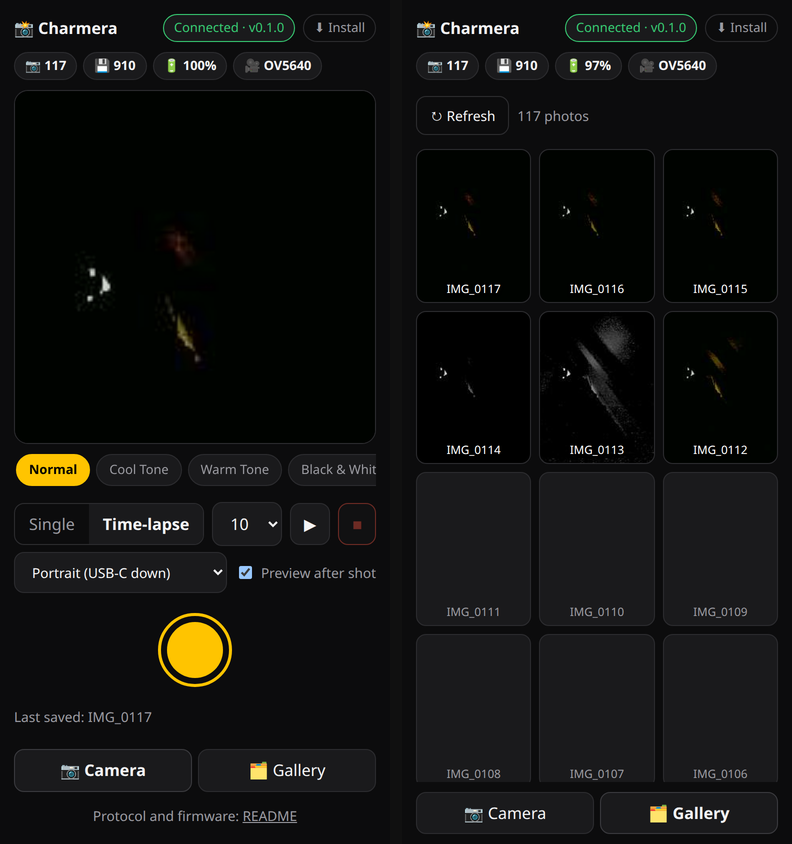
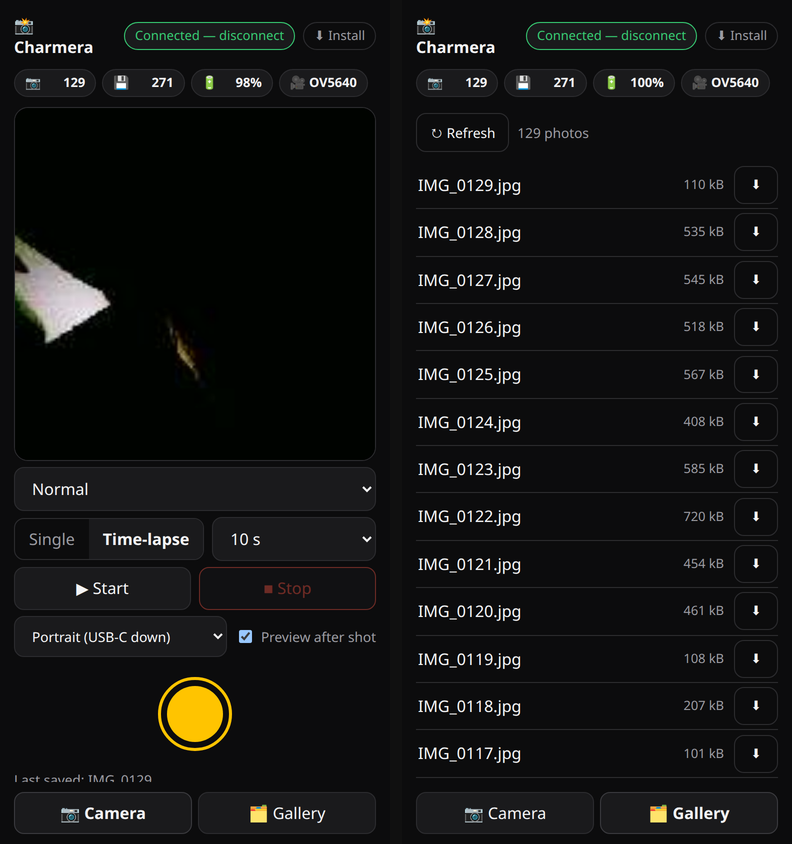
polish(web): gallery is a fast list (no thumbnail prefetch), looks as a dropdown, mode row never clipped, fixed-width status values, tap the badge to disconnect; screenshots and README follow

diff --git a/docs/app.js b/docs/app.js
@@ -101,13 +101,14 @@ function fetchFileNow(command, progress) {
 function render() {
   const connected = !!(device && device.gatt.connected) && ready;
   $('app').classList.toggle('disabled', !connected);
-  $('conn-chip').textContent = connected ? `Connected${info ? ' · v' + info.version : ''}` : 'Not connected';
+  $('conn-chip').textContent = connected ? 'Connected — disconnect' : 'Not connected';
+  $('conn-chip').title = connected ? 'Tap to disconnect' : '';
   $('conn-chip').classList.toggle('on', connected);
   if (!status) return;
   const s = status;
   $('photos').textContent = s.photos;
   $('left').textContent = s.card === 'none' ? 'No card' : s.card === 'full' ? 'Full' : s.left;
-  $('battery').textContent = s.usb ? 'USB' : `${s.battery}%`;
+  $('battery').textContent = s.usb ? 'Charging' : `${s.battery}%`;
   $('camera').textContent = s.camera;
   $('interval').value = s.interval;
   if (s.orientationSetting) $('orientation').value = s.orientationSetting;
@@ -156,24 +157,16 @@ function send(text) {
 // ---------- looks ----------
 
 function buildLooks() {
-  const row = $('looks');
-  row.innerHTML = '';
-  (info ? info.looks : []).forEach((name, i) => {
-    const b = document.createElement('button');
-    b.className = 'pill';
-    b.textContent = name;
-    b.setAttribute('role', 'option');
-    b.addEventListener('click', () => send(`look ${i}`));
-    row.appendChild(b);
-  });
+  const sel = $('looks');
+  sel.innerHTML = '';
+  (info ? info.looks : []).forEach((name, i) => sel.add(new Option(name, i)));
 }
 
 function paintLooks() {
   if (!status) return;
-  [...$('looks').children].forEach((b, i) => {
-    b.classList.toggle('sel', i === status.look);
-    b.disabled = status.running || status.busy;
-  });
+  const sel = $('looks');
+  if (+sel.value !== status.look) sel.value = status.look;
+  sel.disabled = status.running || status.busy;
 }
 
 // ---------- shoot + preview ----------
@@ -229,51 +222,55 @@ async function loadGallery() {
     gallery = JSON.parse(await blob.text());
     gallery.sort((a, b) => b[0] - a[0]); // newest first
     $('gallery-info').textContent = `${gallery.length} photos`;
-    buildGrid();
+    buildList();
   } catch (e) {
     $('gallery-info').textContent = `Failed: ${e.message}`;
   }
 }
 
-const thumbCache = new Map(); // photo number -> object URL, or null when it has no .THM
-let thumbObserver = null;
-
-function buildGrid() {
-  const grid = $('grid');
-  grid.innerHTML = '';
-  if (thumbObserver) thumbObserver.disconnect();
-  thumbObserver = new IntersectionObserver((entries) => {
-    for (const e of entries) {
-      if (!e.isIntersecting) continue;
-      thumbObserver.unobserve(e.target);
-      loadCellThumb(e.target);
-    }
-  }, { rootMargin: '200px' });
+/* A plain list: name, size, a download button. Loading 100+ thumbnails over Bluetooth
+   would take forever, so images only load in the viewer for the photo you picked. */
+function buildList() {
+  const list = $('photo-list');
+  list.innerHTML = '';
   for (const [n, size] of gallery) {
-    const cell = document.createElement('button');
-    cell.className = 'cell';
-    cell.dataset.n = n;
-    cell.title = `IMG_${String(n).padStart(4, '0')} (${Math.round(size / 1024)} kB)`;
-    cell.textContent = `IMG_${String(n).padStart(4, '0')}`;
-    cell.addEventListener('click', () => openViewer(n));
-    grid.appendChild(cell);
-    thumbObserver.observe(cell);
+    const row = document.createElement('div');
+    row.className = 'prow';
+    const name = document.createElement('button');
+    name.className = 'prow-open';
+    name.textContent = `IMG_${String(n).padStart(4, '0')}.jpg`;
+    name.addEventListener('click', () => openViewer(n));
+    const kb = document.createElement('span');
+    kb.className = 'prow-size';
+    kb.textContent = `${Math.round(size / 1024)} kB`;
+    const dl = document.createElement('button');
+    dl.className = 'prow-dl ghost';
+    dl.textContent = '⬇';
+    dl.title = 'Download full size';
+    dl.addEventListener('click', () => downloadRow(n, dl));
+    row.append(name, kb, dl);
+    list.appendChild(row);
   }
 }
 
-async function loadCellThumb(cell) {
-  const n = +cell.dataset.n;
-  if (!thumbCache.has(n)) {
-    try {
-      thumbCache.set(n, URL.createObjectURL(await fetchFile(`thumb ${n}`)));
-    } catch {
-      thumbCache.set(n, null); // older photo without a sidecar: keep the name
-    }
-  }
-  const url = thumbCache.get(n);
-  if (url && cell.isConnected) {
-    cell.style.backgroundImage = `url(${url})`;
-    cell.classList.add('has-thumb');
+/* Download straight from the list; the button shows progress and re-enables when done. */
+async function downloadRow(n, btn) {
+  btn.disabled = true;
+  try {
+    const blob = await fetchFile(`get ${n}`, (got, total) => {
+      btn.textContent = total ? `${Math.round((got / total) * 100)}%` : `${got} B`;
+    });
+    const a = document.createElement('a');
+    a.href = URL.createObjectURL(blob);
+    a.download = `IMG_${String(n).padStart(4, '0')}.jpg`;
+    a.click();
+    btn.textContent = '✓';
+    setTimeout(() => { btn.textContent = '⬇'; }, 1500);
+  } catch (e) {
+    btn.textContent = '✕';
+    setTimeout(() => { btn.textContent = '⬇'; }, 1500);
+  } finally {
+    btn.disabled = false;
   }
 }
 
@@ -415,6 +412,8 @@ function init() {
   $('preview-toggle').checked = store.get('preview', true);
   $('preview-toggle').addEventListener('change', (e) => store.set('preview', e.target.checked));
   $('connect').addEventListener('click', connect);
+  $('conn-chip').addEventListener('click', () => { if (device && device.gatt.connected) connect(); });
+  $('looks').addEventListener('change', (e) => send(`look ${e.target.value}`));
   $('mode-single').addEventListener('click', () => send('mode single'));
   $('mode-lapse').addEventListener('click', () => send(`mode lapse ${$('interval').value || ''}`.trim()));
   $('interval').addEventListener('change', (e) => send(`interval ${e.target.value}`));

diff --git a/docs/style.css b/docs/style.css
@@ -28,12 +28,15 @@ body {
 header { display: flex; align-items: center; gap: 8px; padding: 4px 0 10px; }
 .brand { font-weight: 700; margin-right: auto; }
 
-.chips { display: flex; gap: 6px; flex-wrap: wrap; padding-bottom: 10px; }
+.chips { display: flex; gap: 6px; padding-bottom: 10px; }
 .chip {
   background: var(--panel); border: 1px solid var(--line); border-radius: 999px;
   padding: 4px 10px; font-size: 0.8rem; color: var(--dim); white-space: nowrap;
 }
-.chip b { color: var(--fg); font-weight: 600; }
+.chip b {
+  color: var(--fg); font-weight: 600; display: inline-block; min-width: 3.2em;
+  text-align: right; font-variant-numeric: tabular-nums; /* fixed width: values don't shove the row */
+}
 .chip.on { border-color: var(--ok); color: var(--ok); }
 button.chip { cursor: pointer; }
 
@@ -78,12 +81,12 @@ button.ghost { background: transparent; }
 .row { display: flex; gap: 8px; align-items: center; margin: 6px 0; }
 .row.compact { font-size: 0.85rem; }
 .row > select { flex: 1; min-width: 0; }
-.seg { display: flex; border: 1px solid var(--line); border-radius: 10px; overflow: hidden; }
-.seg button { border: none; border-radius: 0; background: transparent; color: var(--dim); padding: 9px 14px; }
+.seg { display: flex; border: 1px solid var(--line); border-radius: 10px; overflow: hidden; flex: 0 0 auto; }
+.seg button { border: none; border-radius: 0; background: transparent; color: var(--dim); padding: 9px 14px; white-space: nowrap; }
 .seg button[aria-checked="true"] { background: var(--panel); color: var(--fg); font-weight: 600; }
 .toggle { display: flex; gap: 6px; align-items: center; color: var(--dim); white-space: nowrap; }
-#lapse-start, #lapse-stop { flex: 0 0 auto; }
-#interval { flex: 0 0 auto; min-width: 6.5em; }
+#lapse-start, #lapse-stop { flex: 1; }
+#interval { flex: 1; min-width: 0; }
 
 /* ---------- shutter ---------- */
 .shutter-row { display: grid; place-items: center; padding: 14px 0 6px; }
@@ -97,13 +100,17 @@ button.ghost { background: transparent; }
 @keyframes pulse { 50% { opacity: 0.3; } }
 
 /* ---------- gallery ---------- */
-#grid { display: grid; grid-template-columns: repeat(auto-fill, minmax(104px, 1fr)); gap: 8px; padding: 8px 0; }
-.cell {
-  aspect-ratio: 3 / 4; border-radius: 10px; border: 1px solid var(--line);
-  background: var(--panel) center / cover no-repeat; color: var(--dim); font-size: 0.72rem;
-  display: grid; place-items: end center; padding: 4px; word-break: break-all;
+#photo-list { display: flex; flex-direction: column; padding: 4px 0; }
+.prow {
+  display: flex; align-items: center; gap: 10px; padding: 2px 0;
+  border-bottom: 1px solid var(--line);
 }
-.cell.has-thumb { color: #fff; text-shadow: 0 1px 3px #000; }
+.prow-open {
+  flex: 1; min-width: 0; text-align: left; background: transparent; border: none;
+  border-radius: 0; padding: 10px 2px; font-variant-numeric: tabular-nums;
+}
+.prow-size { color: var(--dim); font-size: 0.8rem; font-variant-numeric: tabular-nums; white-space: nowrap; }
+.prow-dl { flex: 0 0 auto; min-width: 44px; font-size: 0.8rem; font-variant-numeric: tabular-nums; }
 
 /* ---------- tabs ---------- */
 #tabs { display: flex; gap: 6px; margin-top: auto; padding: 10px 0; position: sticky; bottom: 0; background: var(--bg); }

diff --git a/docs/index.html b/docs/index.html
@@ -14,7 +14,7 @@
   <div id="app" class="disabled">
     <header>
       <span class="brand">📸 Charmera</span>
-      <span id="conn-chip" class="chip">Not connected</span>
+      <button id="conn-chip" class="chip" title="Tap to disconnect">Not connected</button>
       <button id="install" class="chip ghost" hidden>⬇ Install</button>
     </header>
 
@@ -43,7 +43,9 @@
         </div>
       </div>
 
-      <div id="looks" class="pill-row" role="listbox" aria-label="Look"></div>
+      <div class="row">
+        <select id="looks" aria-label="Look"></select>
+      </div>
 
       <div class="row">
         <div class="seg" role="radiogroup" aria-label="Mode">
@@ -51,8 +53,11 @@
           <button id="mode-lapse" role="radio">Time-lapse</button>
         </div>
         <select id="interval" aria-label="Interval"></select>
-        <button id="lapse-start">▶</button>
-        <button id="lapse-stop" class="danger" disabled>■</button>
+      </div>
+
+      <div class="row">
+        <button id="lapse-start">▶ Start</button>
+        <button id="lapse-stop" class="danger" disabled>■ Stop</button>
       </div>
 
       <div class="row compact">
@@ -77,7 +82,7 @@
         <button id="gallery-refresh" class="ghost">↻ Refresh</button>
         <span id="gallery-info" class="muted">Not loaded yet</span>
       </div>
-      <div id="grid"></div>
+      <div id="photo-list"></div>
     </section>
 
     <nav id="tabs">

diff --git a/docs/sw.js b/docs/sw.js
@@ -2,7 +2,7 @@
 // network afterwards. Requests are served from the cache at once and refreshed in the
 // background (stale-while-revalidate), so a new version shows up on the next launch.
 // Bump VERSION when the shell's file list changes.
-const VERSION = 'charmera-remote-v4';
+const VERSION = 'charmera-remote-v5';
 const SHELL = [
   './',
   'index.html',

diff --git a/tools/web_test.py b/tools/web_test.py
@@ -104,12 +104,12 @@ async def main():
             print("    device connected:", await ev("!!(device && device.gatt.connected)"))
         print("    chip:", await ev("$('conn-chip').textContent"))
         print("    chips:", await ev("['photos','left','battery','camera'].map(i=>$(i).textContent).join(' | ')"))
-        report("look pills filled from Info (12)", await ev("$('looks').children.length") == 12)
+        report("look select filled from Info (12)", await ev("$('looks').options.length") == 12)
         report("interval list filled (5)", await ev("$('interval').options.length") == 5)
 
-        await ev("$('looks').children[2].click()")
-        report("look pill -> camera reports look 2", await until("status.look === 2"))
-        await ev("$('looks').children[0].click()")
+        await ev("$('looks').value='2'; $('looks').dispatchEvent(new Event('change'))")
+        report("look select -> camera reports look 2", await until("status.look === 2"))
+        await ev("$('looks').value='0'; $('looks').dispatchEvent(new Event('change'))")
         report("look back to Normal", await until("status.look === 0"))
 
         await ev("$('mode-lapse').click()")
@@ -137,20 +137,20 @@ async def main():
         await ev("window.confirm = () => true; $('lapse-stop').click()")
         report("Stop (confirmed) -> stopped, controls unlocked", await until("!status.running && !$('shoot').disabled", 20))
 
-        # gallery: tab switch triggers list; cells appear
+        # gallery: tab switch triggers list; rows appear (no thumbnails by design)
         await ev("$('tab-gallery').click()")
-        report("gallery lists card photos", await until("gallery.length > 0 && $('grid').children.length > 0", 25))
+        report("gallery lists card photos", await until("gallery.length > 0 && $('photo-list').children.length > 0", 25))
         print("    gallery-info:", await ev("$('gallery-info').textContent"))
-        print("    gallery:", await ev("gallery.length"), "photos, first cell", await ev("$('grid').firstChild.textContent"))
-        report("gallery cell opens viewer with thumbnail",
-               await ev("(async () => { $('grid').firstChild.click(); "
+        print("    gallery:", await ev("gallery.length"), "photos, first row", await ev("$('photo-list').firstChild.textContent"))
+        report("gallery row opens viewer with thumbnail",
+               await ev("(async () => { $('photo-list').firstChild.querySelector('.prow-open').click(); "
                         "await new Promise(r => setTimeout(r, 8000)); "
                         "return !$('viewer').hidden && !$('viewer-img').hidden; })()"))
 
         await ev("$('interval').value='1'; $('interval').dispatchEvent(new Event('change'))")
         await until("status.interval === 1")
-        await ev("device.gatt.disconnect()")
-        report("Disconnect -> controls disabled",
+        await ev("$('conn-chip').click()")
+        report("chip -> controls disabled",
                await until("$('app').classList.contains('disabled')"))
         print(f"\n{sum(log)}/{len(log)} passed")
         ok = all(log)

diff --git a/README.md b/README.md
@@ -47,7 +47,7 @@ Charmera's most common complaint: **you don't have to pick a mode every time you
 | 🔄 **Hold it any way** | Portrait, landscape either way round, or **Auto**, which turns the screen like a phone. Screen, viewfinder, frames, photos and gallery all follow. |
 | 👁 **WYSIWYG viewfinder** | Live view and encoder share the same C code per look; host tests check they agree. |
 | ⏱ **Time-lapse** | One photo every 5 s – 5 min, in its own card folder, ready to turn into video. Keeps shooting while the screen sleeps. |
-| 📶 **Bluetooth web app** | An installable phone app: shoot, see each shot right after, browse the card's thumbnails, download originals. |
+| 📶 **Bluetooth web app** | An installable phone app: shoot, see each shot right after, list the card and download originals. |
 | 🖼 **Gallery** | On the camera and in the app. Newest first. Step back through shots, delete one or all on the camera. |
 | 🏷 **Full EXIF** | Camera, date/time, orientation, size, look, time-lapse run and frame. |
 | 🔋 **Battery-friendly** | Dims after 30 s, off after 3 min; the sensor only runs while the viewfinder shows. |
@@ -201,7 +201,7 @@ At 24 fps, a 10 s interval turns 1 hour into 15 seconds of video.
 
 ## 📶 Bluetooth remote
 
-<img src="docs/images/remote.png" alt="The web app on a phone: the camera view with the preview of the shot just taken, look pills, time-lapse controls and the shutter; and the gallery view, a grid of thumbnails streamed from the card" width="400" align="right">
+<img src="docs/images/remote.png" alt="The web app on a phone: the camera view with the preview of the shot just taken, the look dropdown, time-lapse controls and the shutter; and the gallery view, a list of the card's photos with size and a download button" width="400" align="right">
 
 The camera advertises over Bluetooth LE as **Charmera-S3**. On by default; turn it off in
 Settings to save memory and battery.
@@ -214,9 +214,10 @@ the camera, not a status page:
   stop a run, change orientation. Battery, photo count and space left sit in the top bar.
 - **See what you shot.** With *Preview after shot* on (the default; the switch is remembered),
   the shot appears on the page about a second after the camera says *Saved*.
-- **Gallery.** Every photo on the card, newest first, with thumbnails that load as you scroll.
-  Tap one to view it, then **⬇ Full-size** to save the original JPEG (EXIF included) to your
-  phone or PC, without pulling the card.
+- **Gallery.** Every photo on the card, newest first, as a light list of names and sizes — no
+  thumbnails to wait for. Tap a name to preview it, or hit **⬇** on its row (or **⬇ Full-size**
+  in the viewer) to save the original JPEG (EXIF included) to your phone or PC without pulling
+  the card.
 
 iPhone browsers don't support Web Bluetooth. On Linux, Chrome needs
 `--enable-experimental-web-platform-features`.
@@ -227,11 +228,11 @@ internet; Bluetooth to the camera never needs the network.
 
 > [!NOTE]
 > **Previews are fast, originals take a while.** Each new photo also gets a small 144 × 192
-> thumbnail (`IMG_xxxx.THM`, about 5 KB) beside it on the card, so previews and the gallery
-> arrive in a second or two. A full 5 MP original goes over Bluetooth at roughly **5–8 kB/s**,
-> so a Normal-look photo (about 0.5–0.8 MB) takes a minute or two. For a whole card, a card
-> reader is still faster. Photos taken before this firmware have no thumbnail; they show
-> their name in the gallery and still download full-size.
+> thumbnail (`IMG_xxxx.THM`, about 5 KB) beside it on the card, so the after-shot preview and
+> the viewer image arrive in a second or two. A full 5 MP original goes over Bluetooth at
+> roughly **5–8 kB/s**, so a Normal-look photo (about 0.5–0.8 MB) takes a minute or two. For a
+> whole card, a card reader is still faster. Photos taken before this firmware have no
+> thumbnail; the viewer has no image for them, but the row still downloads full-size.
 
 While a time-lapse runs, only *Stop* changes anything: looks, mode and the shutter are refused
 so a stray tap can't spoil the run. Browsing and downloading still work.
